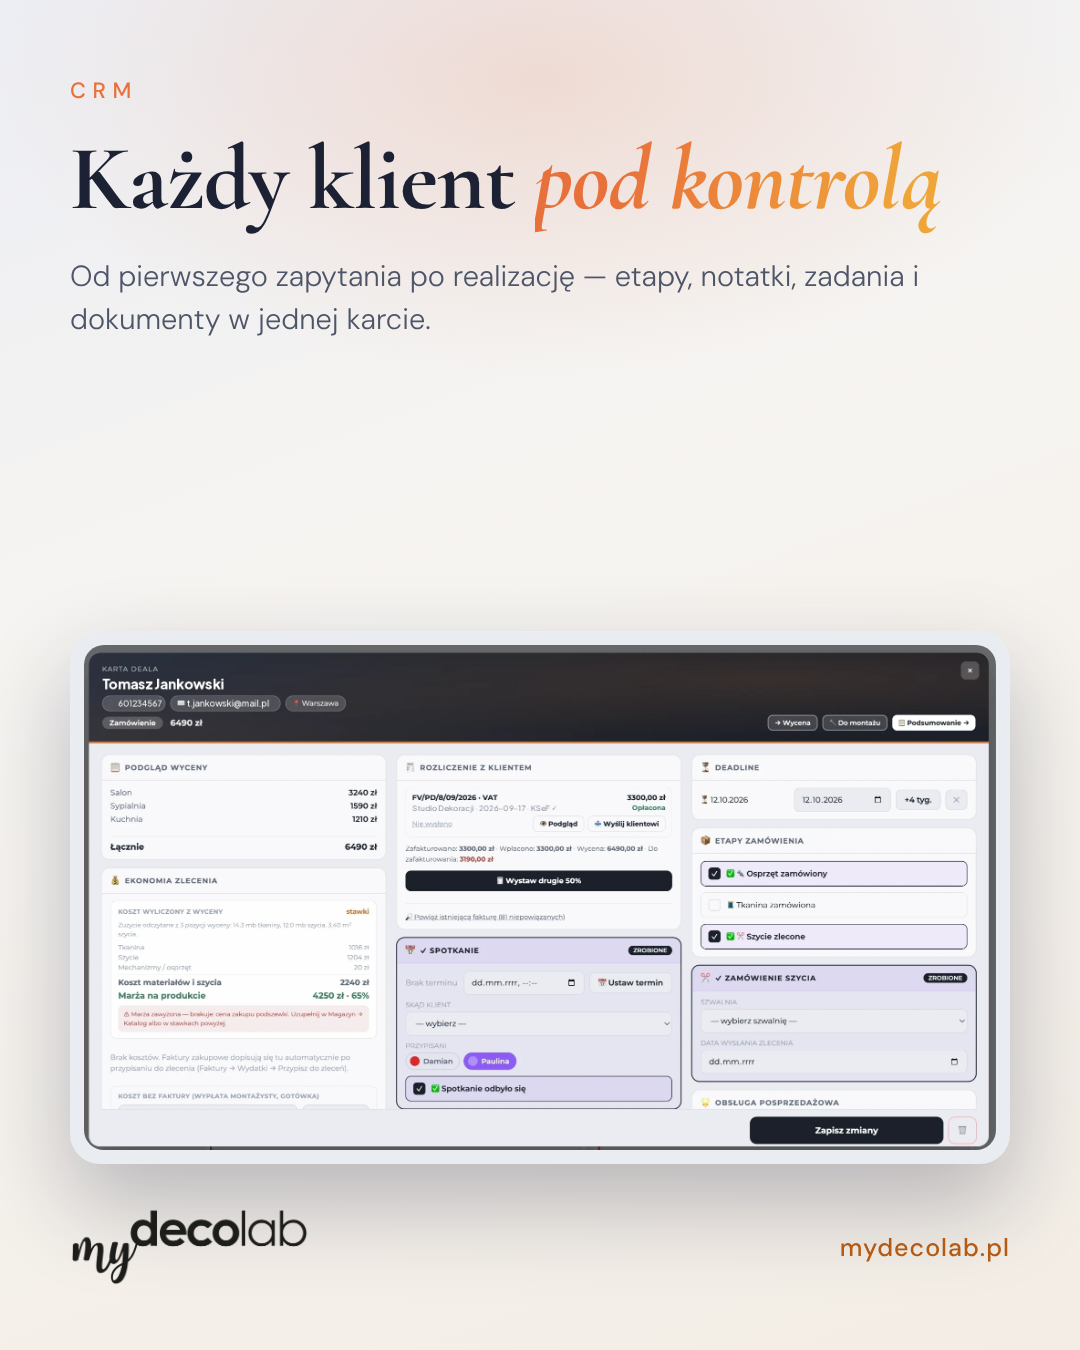
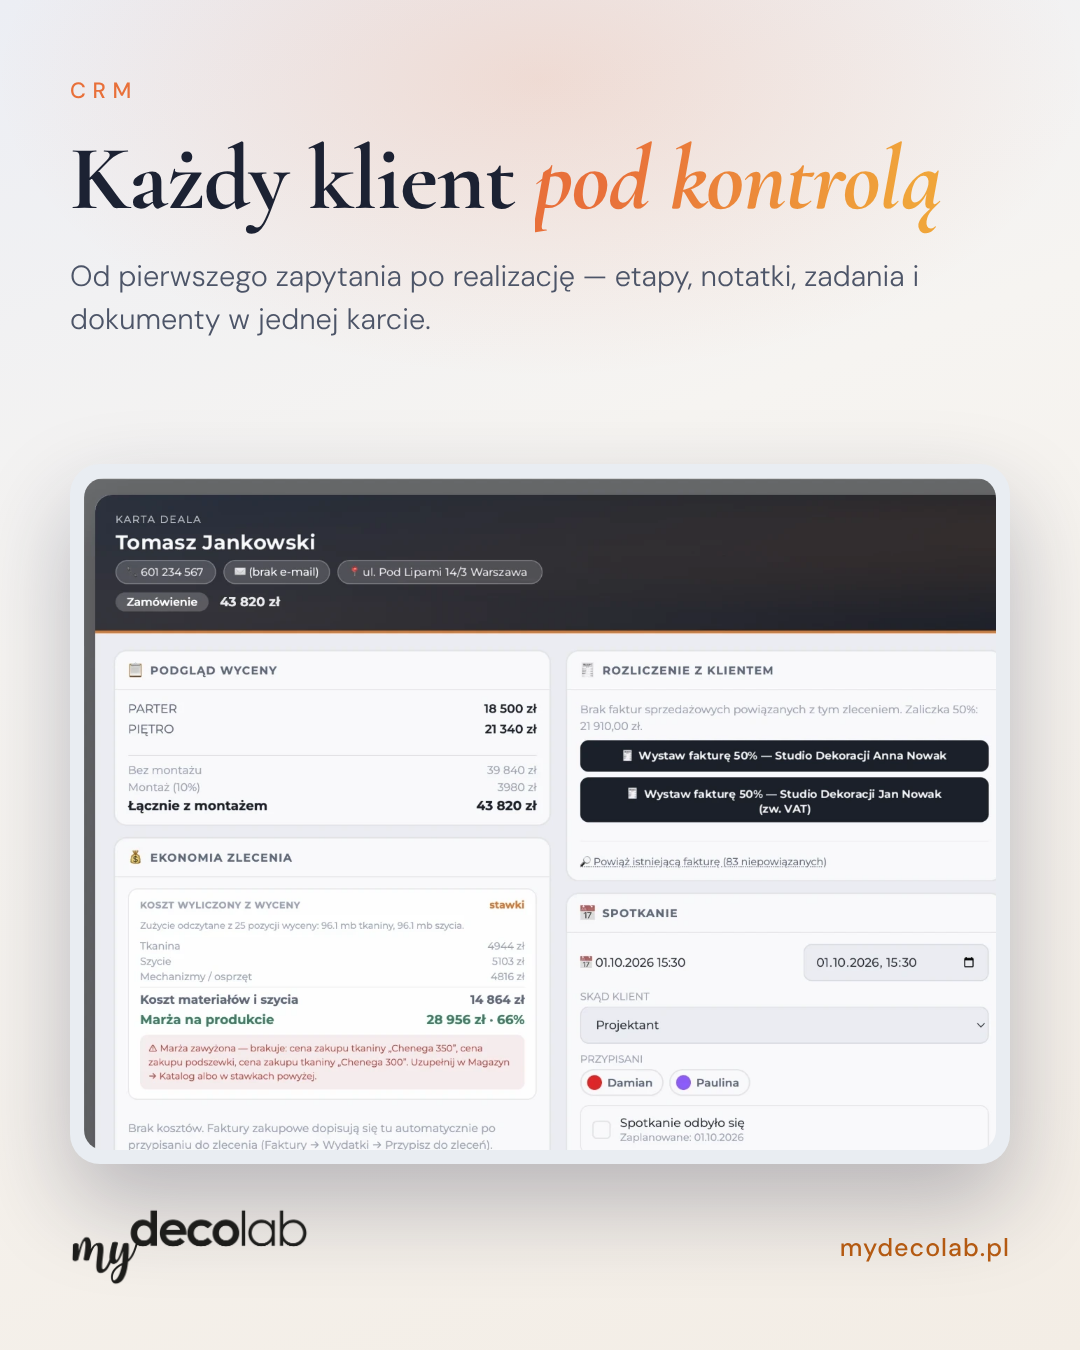
Grafika CRM: nowy zrzut karty deala z przykładowymi danymi (skrypt podmiany danych)
Claude-Session: https://claude.ai/code/session_01GDbqFbDENKSgmogZ69L9kG

Changed region(s): [[0.0611, 0.3422, 0.9472, 0.8711]]

diff --git a/social/anonymize_deal_card.py b/social/anonymize_deal_card.py
@@ -1,0 +1,92 @@
+"""Podmienia dane osobowe na zrzucie karty deala na dane przykładowe.
+Użycie: python3 social/anonymize_deal_card.py <wejście.webp> <wyjście.webp> <katalog_z_Montserrat>
+Czcionki: mont400/500/700.ttf (Montserrat, Google Fonts)."""
+import sys
+from PIL import Image, ImageDraw, ImageFont, ImageFilter
+
+src, dst, fontdir = sys.argv[1:4]
+im = Image.open(src).convert('RGB')
+px = im.load()
+F = lambda w, s: ImageFont.truetype(f'{fontdir}/mont{w}.ttf', s)
+
+def fit(text, width, weight):
+    """Rozmiar czcionki, przy którym oryginalny tekst ma zadaną szerokość."""
+    lo, hi = 8.0, 80.0
+    for _ in range(30):
+        m = (lo + hi) / 2
+        if F(weight, m).getlength(text) < width: lo = m
+        else: hi = m
+    return round(lo * 4) / 4
+
+def font(w, s): return ImageFont.truetype(f'{fontdir}/mont{w}.ttf', s)
+
+def erase_rows(x0, y0, x1, y1, xl, xr):
+    """Zamazuje prostokąt tłem z interpolacji poziomej między kolumnami xl i xr (osobno dla każdego wiersza)."""
+    for y in range(y0, y1):
+        a, b = px[xl, y], px[xr, y]
+        for x in range(x0, x1):
+            t = (x - xl) / (xr - xl)
+            px[x, y] = tuple(round(a[i] + (b[i] - a[i]) * t) for i in range(3))
+
+layer = Image.new('RGBA', im.size, (0, 0, 0, 0))
+d = ImageDraw.Draw(layer)
+
+def put(text, x, baseline, f, color, anchor='ls'):
+    d.text((x, baseline), text, font=f, fill=color + (255,), anchor=anchor)
+
+WHITE = (250, 250, 252)
+
+# nagłówek: imię i nazwisko (baseline 105 – tekst bez ogonków)
+erase_rows(40, 68, 445, 114, 30, 470)
+fs = fit('Reanata Franke TKANINY', 385, 700)
+put('Tomasz Jankowski', 45, 102, font(700, fs), WHITE)
+
+# chip telefon
+erase_rows(80, 124, 178, 146, 79, 179)
+fs = fit('606 961 979', 91, 500)
+put('601 234 567', 81, 140, font(500, fs), WHITE)
+
+# chip adres
+erase_rows(396, 124, 646, 146, 395, 647)
+fs = fit('ul. Pod Dębami 22/1 Warszawa', 241, 500)
+put('ul. Pod Lipami 14/3 Warszawa', 398, 140, font(500, fs), WHITE)
+
+# przyciski faktur
+BTN = px[1000, 380]
+def btn_text(x0, x1, y0, y1, icon_box, lines, base_y, fsz):
+    """Zamazuje tekst przycisku, zostawia ikonkę i rysuje nowy tekst wyśrodkowany razem z ikonką."""
+    icon = im.crop(icon_box)
+    for y in range(y0, y1):
+        for x in range(x0, x1): px[x, y] = BTN
+    f = font(700, fsz)
+    first = lines[0]
+    iw = icon.width + 7
+    tw = f.getlength(first)
+    left = (709 + 1292) / 2 - (iw + tw) / 2
+    return icon, left, iw, f
+
+# przycisk 1 (środek: 709..1292, 374..419)
+icon1 = im.crop((758, 385, 775, 410))
+fs = fit('Wystaw fakturę 50% — PD Porter Design Paulina Porter', 464, 700)
+for y in range(380, 414):
+    for x in range(712, 1289): px[x, y] = BTN
+f = font(700, fs)
+t1 = 'Wystaw fakturę 50% — Studio Dekoracji Anna Nowak'
+left = 1000.5 - (icon1.width + 7 + f.getlength(t1)) / 2
+im.paste(icon1, (round(left), 385))
+put(t1, left + icon1.width + 7, 402, f, WHITE)
+
+# przycisk 2 – dwie linie (zw. VAT)
+icon2 = im.crop((739, 440, 756, 460))
+for y in range(433, 487):
+    for x in range(712, 1289): px[x, y] = BTN
+t2a = 'Wystaw fakturę 50% — Studio Dekoracji Jan Nowak'
+left = 1000.5 - (icon2.width + 7 + f.getlength(t2a)) / 2
+im.paste(icon2, (round(left), 441))
+put(t2a, left + icon2.width + 7, 457, f, WHITE)
+put('(zw. VAT)', 1000.5, 478, f, WHITE, anchor='ms')
+
+layer = layer.filter(ImageFilter.GaussianBlur(0.45))
+im = Image.alpha_composite(im.convert('RGBA'), layer).convert('RGB')
+im.save(dst, quality=92)
+print('ok', dst)

diff --git a/social/render.py b/social/render.py
@@ -4,6 +4,7 @@ from playwright.sync_api import sync_playwright
 
 ROOT = pathlib.Path(__file__).resolve().parent.parent
 PUB = ROOT / 'public'
+SRC = ROOT / 'social' / 'src'  # zrzuty, które mają pierwszeństwo przed public/
 OUT = ROOT / 'social' / 'out'
 OUT.mkdir(exist_ok=True)
 
@@ -38,14 +39,14 @@ h1 em{font-style:italic;background:linear-gradient(105deg,#e8703a 20%,#f0a53a 90
 """
 
 def page(img, eyebrow, title, sub):
-    full = img in ('ai.webp', 'crm-deal-card.webp')  # modale bez paska bocznego: cały kadr
-    imgstyle = 'width:100%' if full else 'width:1290px;margin-left:-168px'
+    full = img == 'ai.webp'  # modal na przyciemnionym tle: cały kadr
+    imgstyle = 'width:100%' if full else 'width:1400px;margin-left:0' if img == 'crm-deal-card.webp' else 'width:1290px;margin-left:-168px'
     shotstyle = 'height:auto' if full else ''
     return f"""<!doctype html><html><head><meta charset=utf-8>
 <link href="https://fonts.googleapis.com/css2?family=Cormorant+Garamond:ital,wght@0,700;1,700&family=DM+Sans:wght@300;500&display=swap" rel="stylesheet">
 <style>{CSS}</style></head><body><div class=glow></div><div class=wrap>
 <p class=eyebrow>{html.escape(eyebrow)}</p><h1>{title}</h1><p class=sub>{html.escape(sub)}</p>
-<div class=shot style="{shotstyle}"><div class=shotin><img style="{imgstyle}" src="file://{PUB/img}"></div></div>
+<div class=shot style="{shotstyle}"><div class=shotin><img style="{imgstyle}" src="file://{(SRC/img) if (SRC/img).exists() else (PUB/img)}"></div></div>
 <div class=foot><img src="file://{PUB/'logo-mydecolab.png'}"><span>mydecolab.pl</span></div>
 </div></body></html>"""
 
